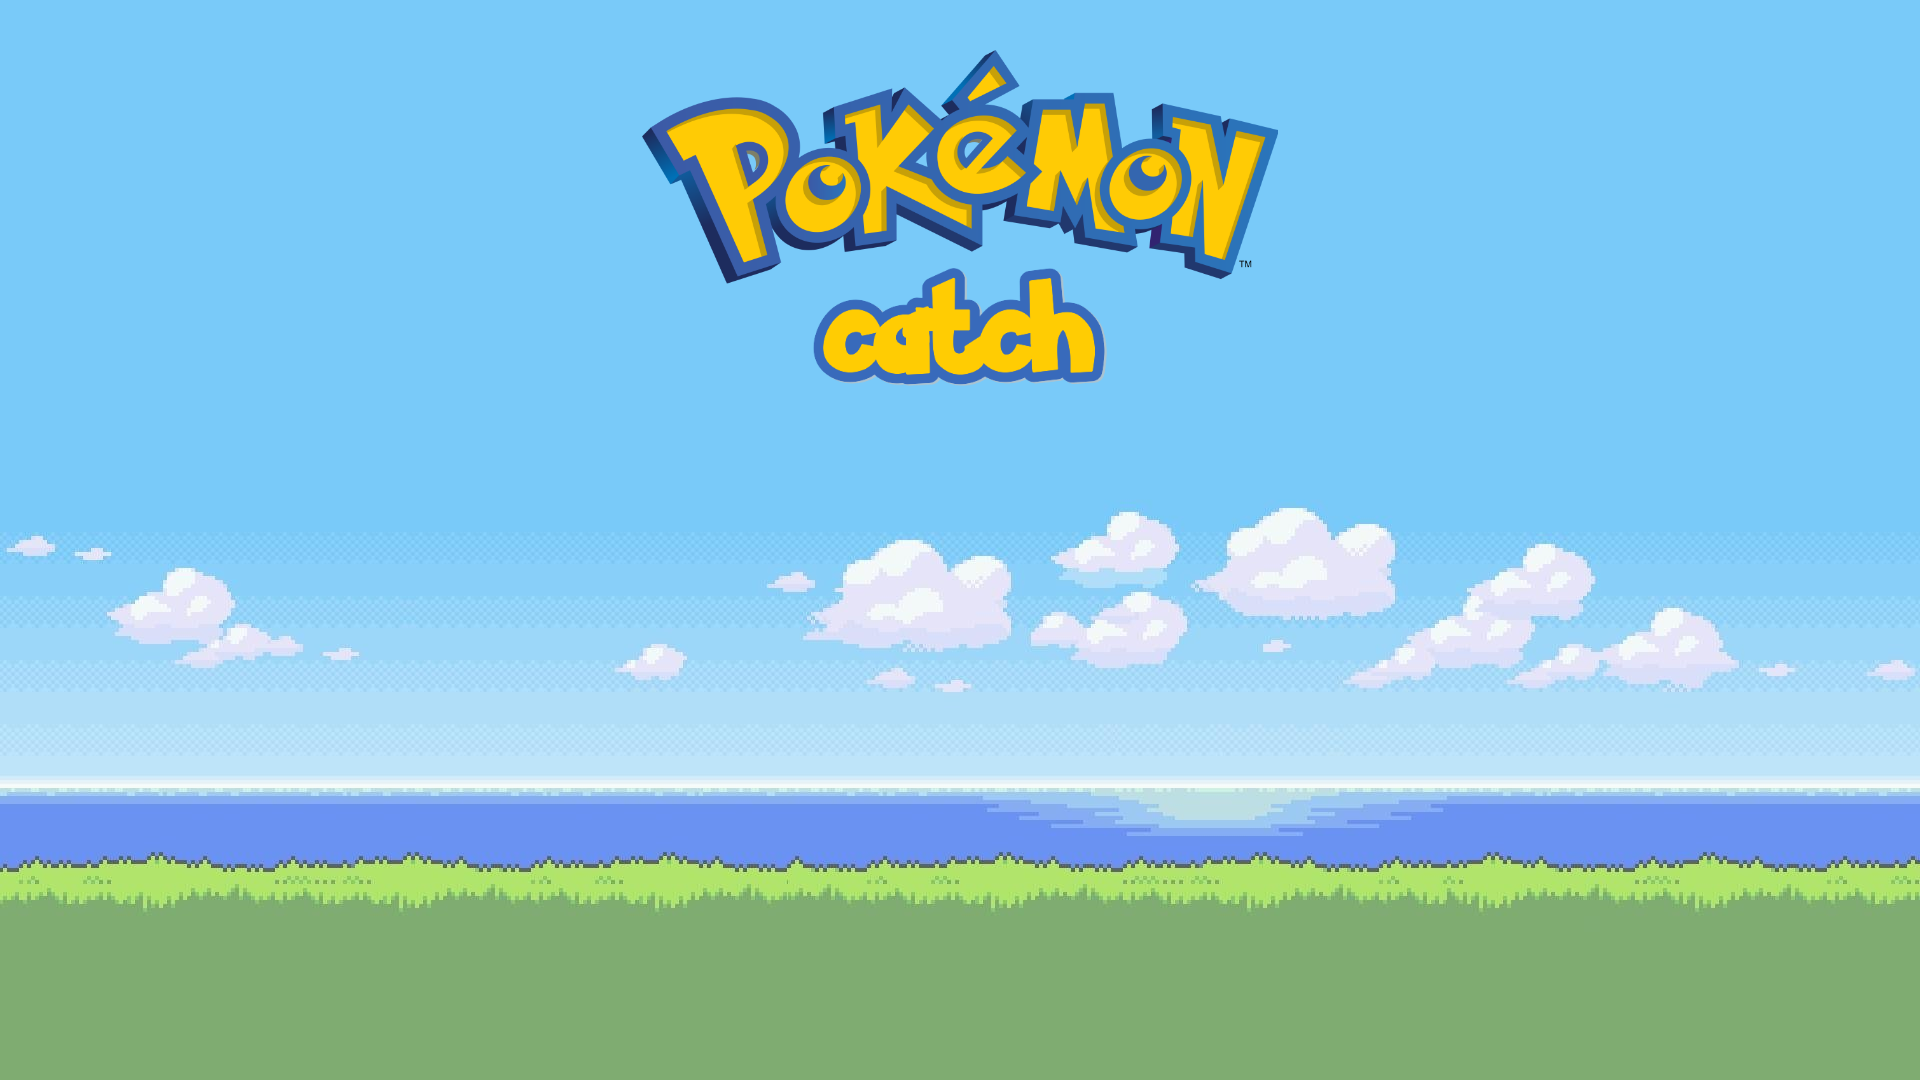
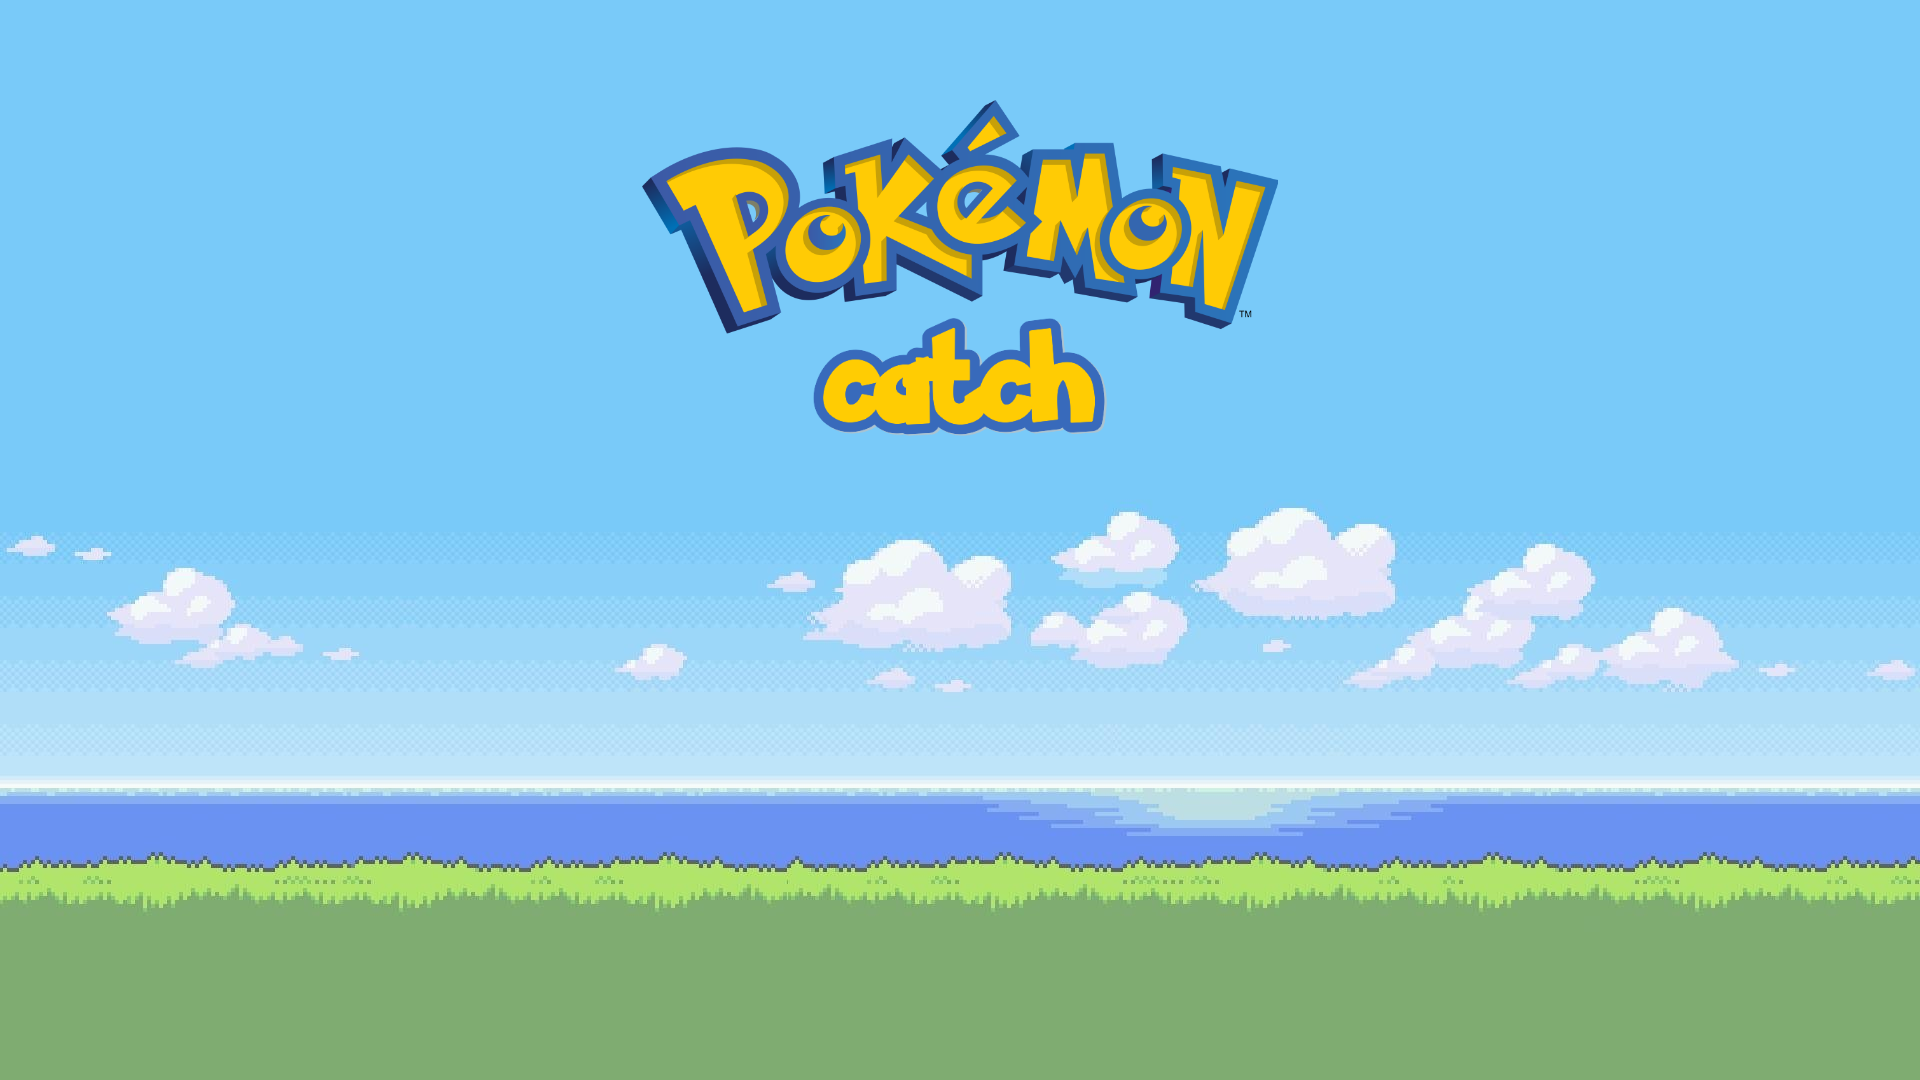
Ajustes na tela de menu

Changed region(s): [[0.3125, 0.0306, 0.6875, 0.4278]]

diff --git a/index.css b/index.css
@@ -213,9 +213,11 @@ body {
 
 .container-menu {
     position: absolute;
-    top: 45%;
-    left: 39%;
+    top: 50%;
+    left: 50%;
     z-index: 3;
+    -ms-transform: translate(-50%, -50%);
+    transform: translate(-50%, -50%);
 }
 
 button#play span, button#start span, button.restart span {
